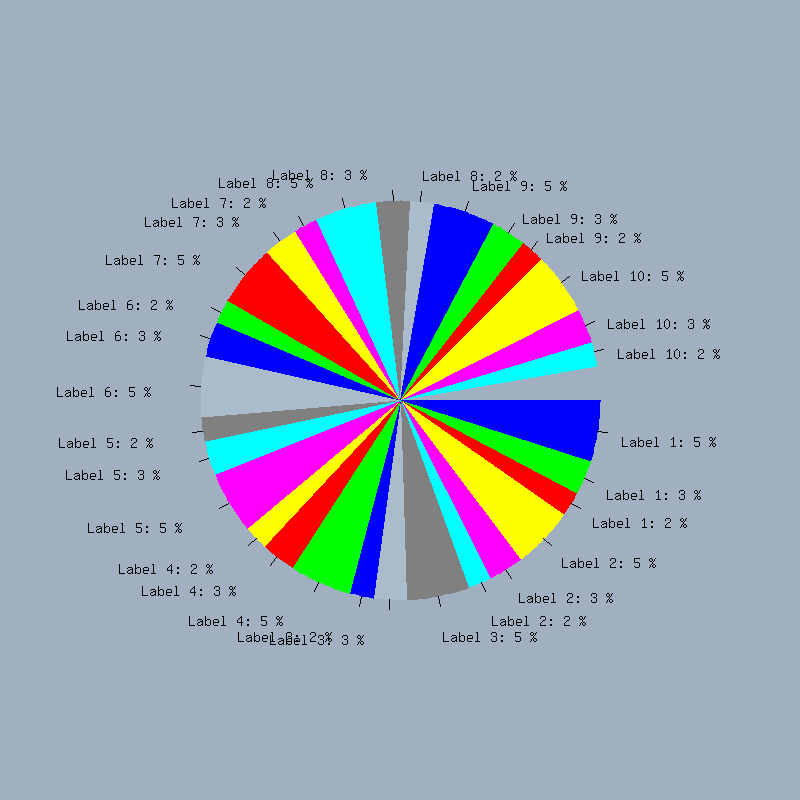
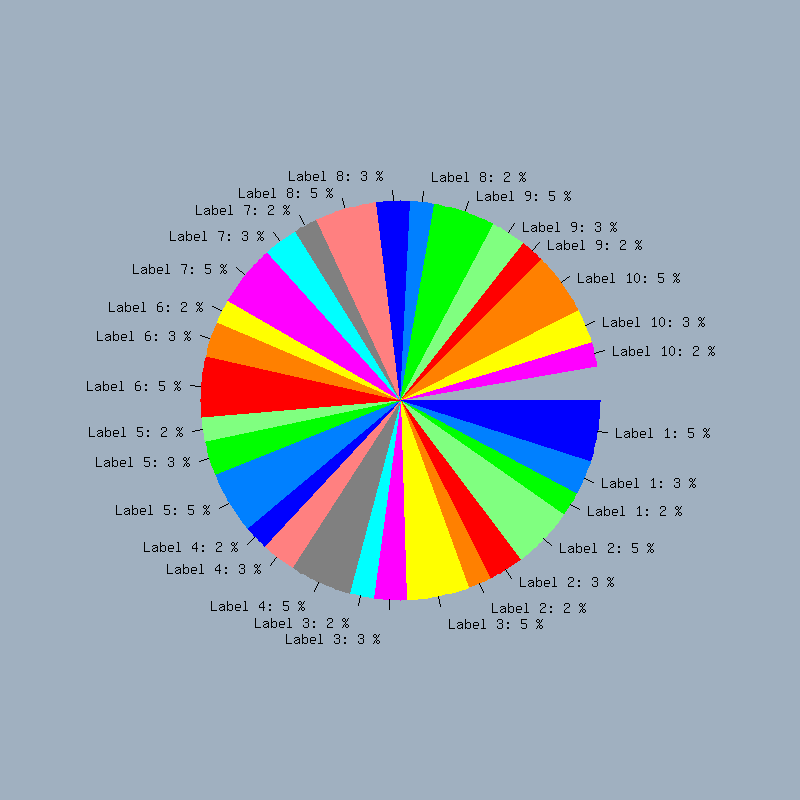
Amélioration de l'affichage des étiquettes. Ajout des fonctionnalitées relatifs absolues

diff --git a/main.c b/main.c
@@ -3,11 +3,13 @@
  *
  * Ligne de commande pour test:
  * ./pie -p 10,20,15,15,30 -l 'Label: 10%','Label: 20%','Label: 15%','Label: 15%','Label: 30%' -f CamPartiel.png -o 800,800,400,0x80A0B0C0
+ * Option c
  * ./pie -p 5,3,2,5,3,2,5,3,2,5,3,2,5,3,2,5,3,2,5,3,2,5,3,2,5,3,2,5,3,2, -l 'Label 1: 5 %','Label 1: 3 %','Label 1: 2 %','Label 2: 5 %','Label 2: 3 %','Label 2: 2 %','Label 3: 5 %','Label 3: 3 %','Label 3: 2 %','Label 4: 5 %','Label 4: 3 %','Label 4: 2 %','Label 5: 5 %','Label 5: 3 %','Label 5: 2 %','Label 6: 5 %','Label 6: 3 %','Label 6: 2 %','Label 7: 5 %','Label 7: 3 %','Label 7: 2 %','Label 8: 5 %','Label 8: 3 %','Label 8: 2 %','Label 9: 5 %','Label 9: 3 %','Label 9: 2 %','Label 10: 5 %','Label 10: 3 %','Label 10: 2 %' -f pbArrondi.png -o 800,800,400,0x80A0B0C0 -t c
- *
- * ./pie -p 5,3,2,5,3,2,5,3,2,5,3,2,5,3,2,5,3,2,5,3,2,5,3,2,5,3,2,5,3,2, -l 'Label 1: 5 %','Label 1: 3 %','Label 1: 2 %','Label 2: 5 %','Label 2: 3 %','Label 2: 2 %','Label 3: 5 %','Label 3: 3 %','Label 3: 2 %','Label 4: 5 %','Label 4: 3 %','Label 4: 2 %','Label 5: 5 %','Label 5: 3 %','Label 5: 2 %','Label 6: 5 %','Label 6: 3 %','Label 6: 2 %','Label 7: 5 %','Label 7: 3 %','Label 7: 2 %','Label 8: 5 %','Label 8: 3 %','Label 8: 2 %','Label 9: 5 %','Label 9: 3 %','Label 9: 2 %','Label 10: 5 %','Label 10: 3 %','Label 10: 2 %' -f pbArrondi.png -o 800,800,400,0x80A0B0C0 -t C
+ * Option C
+ * ./pie -p 11,9,11,9,11,9,11,9,11,9,11,9,11,9,11,9,11,9,11,9,11,9,11,9,11,9,11,9,11,9,11,9,11,9,11,9 -l 'Label: 11','Label: 9','Label: 11','Label: 9','Label: 11','Label: 9','Label: 11','Label: 9','Label: 11','Label: 9','Label: 11','Label: 9','Label: 11','Label: 9','Label: 11','Label: 9','Label: 11','Label: 9','Label: 11','Label: 9','Label: 11','Label: 9','Label: 11','Label: 9','Label: 11','Label: 9','Label: 11','Label: 9','Label: 11','Label: 9','Label: 11','Label: 9','Label: 11','Label: 9','Label: 11','Label: 9' -f Cam36C.png -o 800,800,400,0x80A0B0C0 -t C
  *
  * ./pie -p 10,20,30,40,50,100,50,60 -l 'Label: 10%','Label: 20%','Label: 30%','Label: 40%','Label: 50%','Label: 100%','Label: 50%','Label: 60%' -f toto1.png -o 800,800,400,0x80A0B0C0
+ *
  * ./pie -p 11,9,11,9,11,9,11,9,11,9,11,9,11,9,11,9,11,9,11,9,11,9,11,9,11,9,11,9,11,9,11,9,11,9,11,9 -l 'Label: 11','Label: 9','Label: 11','Label: 9','Label: 11','Label: 9','Label: 11','Label: 9','Label: 11','Label: 9','Label: 11','Label: 9','Label: 11','Label: 9','Label: 11','Label: 9','Label: 11','Label: 9','Label: 11','Label: 9','Label: 11','Label: 9','Label: 11','Label: 9','Label: 11','Label: 9','Label: 11','Label: 9','Label: 11','Label: 9','Label: 11','Label: 9','Label: 11','Label: 9','Label: 11','Label: 9' -f toto.png -o 800,800,400,0x80A0B0C0 -t C
 */
 
@@ -16,6 +18,12 @@
 #include <unistd.h>
 #include <gd.h>
 #include <gdfontl.h>
+#include <gdfontt.h>
+#include <gdfonts.h>
+#include <gdfontmb.h>
+#include <gdfontg.h>
+
+
 #include <math.h>
 
 //#define DEBUG 0
@@ -25,27 +33,39 @@ int LARGEUR = 400;
 int DIMENSION= 200;
 long unsigned int COULEUR_FOND= 0x00FFFFFF;
 
-int taille_police= 10;
+long unsigned int COULEURS[]= {0x000000FF, 0x000080FF, 0x0000FF00, 0x0080FF80, 0x00FF0000, 0x00FF8000 ,0x00FFFF00, 0x00FF00FF, 0x0000FFFF, 0x00808080, 0x00FF8080};
 
-long unsigned int COULEURS[]= {0x000000FF, 0x0000FF00, 0x00FF0000, 0x00FFFF00, 0x00FF00FF, 0x0000FFFF, 0x00808080, 0x00AABBCC};
 
 void afficheAide(void);
 
 int main(int argc, char **argv)
 {
     char *cP, *cL, *cF, *cO, *mot,  **tabArgL, *chW; //*cT,
-    char typeGraphique= 'c'; // Type de grapphiqque par défaut
-    int opt;
+    char typeGraphique= 'C'; // Type de graphique par défaut
+    int opt, numPolice= 3;
     int longCouleur= sizeof(COULEURS)/sizeof(long unsigned int), nArgP= 1, nArgL= 1, tailleArgL= 1;
     int *pourcentage= NULL;
-    gdImagePtr im;
     FILE *desc;
+    gdImagePtr im;
+    gdFontPtr polices[5]; // Plus facile si on souhaite passé le type de police= gdFontLarge;
+
+    polices[0]= gdFontTiny;
+    polices[1]= gdFontSmall;
+    polices[2]= gdFontMediumBold;
+    polices[3]= gdFontLarge;
+    polices[4]= gdFontGiant;
 
     if(argc== 1)
     {
         afficheAide();
         return 1;
     }
+
+    //----------------------------------------------------------------------------------------------------------------------------------------------------------------
+    //
+    //                                          RECUPERATION DE LA LIGNE DE COMMANDE ET PRE TRAITEMENT
+    //
+    //----------------------------------------------------------------------------------------------------------------------------------------------------------------
 
     while((opt = getopt(argc, argv, "p:t:l:f:o:")) != -1) // pltf
     {
@@ -60,9 +80,9 @@ int main(int argc, char **argv)
         break;
 
         case 't': // De la forme t x avec x= c pour un camembert, h pour un histo, b pour un bar chart
-           printf("option: %c\n", opt);
-           printf("param: %s\n", optarg);
-           printf("Longueur: %d\n", strlen(optarg));
+           //printf("option: %c\n", opt);
+           //printf("param: %s\n", optarg);
+           //printf("Longueur: %d\n", strlen(optarg));
            //cT= (char *)malloc( (strlen(optarg) * sizeof(char)) + sizeof(char));
            //strcpy(cT, optarg);
            typeGraphique= optarg[0];
@@ -87,10 +107,9 @@ int main(int argc, char **argv)
            sscanf(cO,"%d,%d,%d,%lx", &HAUTEUR, &LARGEUR, &DIMENSION, &COULEUR_FOND);
            if(HAUTEUR < 200)HAUTEUR=200;
            if(LARGEUR < 200)LARGEUR=200;
-           if(DIMENSION < 200)DIMENSION=100;
+           //if(DIMENSION < 200)DIMENSION=100;
            //printf("\nH %d L %d R %d C %lx\n", HAUTEUR, LARGEUR, DIMENSION, COULEUR_FOND);
            //if(COULEUR_FOND < 200)HAUTEUR=200;
-
        break;
 
         case ':':
@@ -106,6 +125,12 @@ int main(int argc, char **argv)
     }
 
     //printf("\n%s\n%s\n%s\n%s\n", cP,cT,cF, cL);
+
+    //----------------------------------------------------------------------------------------------------------------------------------------------------------------
+    //
+    //                                          RECUPERATION ET MISE EN FORMES DES PARAMETRES
+    //
+    //----------------------------------------------------------------------------------------------------------------------------------------------------------------
 
     //------------------- Paramètre -f
 
@@ -153,8 +178,7 @@ int main(int argc, char **argv)
             default:
                 break;
         }
-        //sscanf(mot, "%lf", );
-        printf("< nArgP= %d -- pourcentage[%d]= %d\n", nArgP, nArgP-1, pourcentage[nArgP-1]);
+        //printf("< nArgP= %d -- pourcentage[%d]= %d\n", nArgP, nArgP-1, pourcentage[nArgP-1]);
         mot= strtok(NULL,",");
         nArgP++;
     }
@@ -201,63 +225,99 @@ int main(int argc, char **argv)
 
     }
 
-    //----------------------------------- Tracer du pie
+    //----------------------------------------------------------------------------------------------------------------------------------------------------------------
+    //
+    //                                          TRACE DES DIFFERENTES FIGURES
+    //
+    //----------------------------------------------------------------------------------------------------------------------------------------------------------------
+
+    // Création de l'image de taille donée en paramètre
     im = gdImageCreateTrueColor(LARGEUR, HAUTEUR);
     gdImageFilledRectangle(im, 0, 0, LARGEUR-1, HAUTEUR-1, COULEUR_FOND);
 
-    for(int i=0, tmp= 0; i<nArgP; i++)
+    //----------------------------------- Tracer du pie
+
+    if( (typeGraphique== 'c') || (typeGraphique== 'C') )
     {
-        double si, co, angle;
-        int posx, posy, offset, off_y, off_x, off;
-        int x0, y0, x1, y1, ltrait= 10;
-        int r= DIMENSION/2 + 10;
-
-        gdImageFilledArc (im, LARGEUR/2, HAUTEUR/2, DIMENSION, DIMENSION, tmp, tmp+pourcentage[i], COULEURS[i%(longCouleur)], gdPie);
-        //printf("\ntmp= %d - tmp + pourcentage[%d]= %lu - i%(longCouleur-1)= %d - i= %d- longCouleur= %d", tmp,i, tmp + pourcentage[i], i%(longCouleur), i, longCouleur);
-
-        angle= (double)(tmp + pourcentage[i]/2)*M_PI/180;
-
-        // VARIABLES DE DEBUG
-        //double angleDeg= (tmp + pourcentage[i]/2);
-
-        si= sin(angle);
-        co= cos(angle);
-        posx= (int)(LARGEUR/2 + r * co );
-        posy= (int)(HAUTEUR/2 + r * si );
-
-        x0= (int)(LARGEUR/2 + DIMENSION/2 * co );
-        y0= (int)(HAUTEUR/2 + DIMENSION/2 * si );
-        x1= (int)(LARGEUR/2 + (DIMENSION/2+ltrait) * co );
-        y1= (int)(HAUTEUR/2 + (DIMENSION/2+ltrait) * si );
-        //printf("\n x0, y0 = %d, %d et x1, y1= %d, %d ltrait= %d -- posx= %d posy=  %d r= %d -- co=  %lf si= %lf \n",x0, y0, x1, y1, ltrait, posx, posy, r, co, si);
-        //printf("VAR DEBUG: angle en degré = %lf\n", angleDeg);
-        gdImageLine(im, x0, y0, x1, y1, 0x00000000);
-
-        //printf("\nangle %lf, sinus= %lf, cosinus= %lf, pourcentage= %d, tmp %d, angle cumulé %d M_PI= %lf posx= %d posy= %d\n", angle, si, co, pourcentage[i], tmp, tmp + pourcentage[i], M_PI, posx,posy);
-        if( (cL!= NULL) && ( i < nArgL))
+        for(int i=0, tmp= 0; i<nArgP; i++)
         {
-            if( (angle > M_PI/2) && (angle < 3*M_PI/2) )
-                offset= -taille_police * strlen(tabArgL[i]);
-            else
-                offset= 0;
+            double si, co, angle;
+            int x0, y0, x1, y1, ltrait= 10;
+            int r= DIMENSION/2 + 10;
 
-            if( (angle > M_PI/3) && (angle < 4*M_PI/3) )
-                off= (int)(taille_police*si);
-            else if( (angle > 4*M_PI/3) && (angle < 5*M_PI/3) )
-                off= (int)(taille_police * si);
-            else
-                off= 0;
-            off_y= (int)(taille_police * 1.5 * si);
-            off_x= (int)(taille_police * 1.5 * co);
-            //gdImageString(im, gdFontLarge, posx, posy, tabArgL[i], 0x00000000);
-            gdImageString(im, gdFontLarge, posx + offset + off_x , posy + off_y + off,tabArgL[i], 0x00000000);
-            //printf("\n Dans l affichage chaine: %s - offset= %d\n", tabArgL[i], offset);
+            // Tracer d'une portion de camembert
+            gdImageFilledArc (im, LARGEUR/2, HAUTEUR/2, DIMENSION, DIMENSION, tmp, tmp+pourcentage[i], COULEURS[i%(longCouleur)], gdPie);
+            //printf("\ntmp= %d - tmp + pourcentage[%d]= %lu - i%(longCouleur-1)= %d - i= %d- longCouleur= %d", tmp,i, tmp + pourcentage[i], i%(longCouleur), i, longCouleur);
+
+            angle= (double)(tmp + (double)pourcentage[i]/2)*M_PI/180;
+
+            // VARIABLES DE DEBUG
+            //double angleDeg= (tmp + pourcentage[i]/2);
+
+            si= sin(angle);
+            co= cos(angle);
+
+            x0= (int)(LARGEUR/2 + DIMENSION/2 * co );
+            y0= (int)(HAUTEUR/2 + DIMENSION/2 * si );
+            x1= (int)(LARGEUR/2 + (DIMENSION/2+ltrait) * co );
+            y1= (int)(HAUTEUR/2 + (DIMENSION/2+ltrait) * si );
+            //printf("\n x0, y0 = %d, %d et x1, y1= %d, %d ltrait= %d -- posx= %d posy=  %d r= %d -- co=  %lf si= %lf \n",x0, y0, x1, y1, ltrait, posx, posy, r, co, si);
+            //printf("VAR DEBUG: angle en degré = %lf\n", angleDeg);
+            gdImageLine(im, x0, y0, x1, y1, 0x00000000);
+
+            //----------------------------------- Ecriture d'un label associé s'il existe
+
+            //printf("\nangle %lf, sinus= %lf, cosinus= %lf, pourcentage= %d, tmp %d, angle cumulé %d M_PI= %lf posx= %d posy= %d\n", angle, si, co, pourcentage[i], tmp, tmp + pourcentage[i], M_PI, posx,posy);
+            if( (cL!= NULL) && ( i < nArgL))
+            {
+                int posx, posy, offset, off_y, off_y_s=0, off_y_s2=0;
+
+                posx= (int)(LARGEUR/2 + r * co );
+                posy= (int)(HAUTEUR/2 + r * si );
+
+                if( (angle > M_PI/2) && (angle < 3*M_PI/2) )
+                {
+                    offset= -(polices[numPolice]->w) * strlen(tabArgL[i]) - polices[numPolice]->w;
+                    off_y= (int)((polices[numPolice]->w) * 1.0 * co);
+                    //off_y_s= (int)((polices[numPolice]->w) * si * 1.5);
+                }
+                else
+                {
+                    offset= (polices[numPolice]->w);
+                    off_y= (int)(-(polices[numPolice]->w) * 1.0 * co);
+                    //off_y_s= (int)((polices[numPolice]->w) * si * 1.5);
+                }
+                if( (angle > M_PI/3) && (angle < 2*M_PI/3) || (angle > 4*M_PI/3) && (angle < 5*M_PI/3) )
+                {
+                    off_y_s= (int)((polices[numPolice]->w) * si * 1.5);
+                    off_y+= off_y_s;
+                }
+
+                if( (angle > 9*M_PI/20) && (angle < 11*M_PI/20) || (angle > 29*M_PI/20) && (angle < 31*M_PI/20) )
+                {
+                    off_y_s2= (int)((polices[numPolice]->w) * si * 1.5);
+                    off_y+= off_y_s2;
+                }
+
+                /*
+                if( (angle > M_PI/3) && (angle < 4*M_PI/3) )
+                    off= (int)((polices[numPolice]->w)*si);
+                else if( (angle > 4*M_PI/3) && (angle < 5*M_PI/3) )
+                    off= (int)((polices[numPolice]->w) * si);
+                else
+                    off= 0;
+                */
+                //off_x= 0; //(int)((polices[numPolice]->w) * 1.5 * co);
+                //gdImageString(im, gdFontLarge, posx, posy, tabArgL[i], 0x00000000);
+                gdImageString(im, gdFontLarge, posx + offset, posy + off_y,tabArgL[i], 0x00000000);
+                //printf("\n Dans l affichage chaine: %s - offset= %d\n", tabArgL[i], offset);
+            }
+
+            tmp+= pourcentage[i];
+
         }
 
-        tmp+= pourcentage[i];
-
     }
-
 
     if (!desc) {
         fprintf(stderr, "Erreur de création du fichier.\n");

diff --git a/README.md b/README.md
@@ -10,6 +10,9 @@ Ce programme permet de dessiner des camemberts proportionnels aux pourcentages p
 - -t ce paramètre optionel permet de définir le type de graphique (-t type de graphique type= c/C pour un camembert, h/H pour un histogramme, b/B pour un bar chart). Si le paramètre est en minuscule, les données sont considérées comme un pourcentage, sinon les données sont des données absolues. **b et h sont en cours d'intégration**.  
 - -o ce paramètre optionel permet de définir la hauteur et la largeur de l'image ainsi que le rayon du cercle et la couleur de fond.  
   
+La valeur par défaut du paramètre -t est 'C'.  
+Les valeurs par défauts du paramètre -o sont 400, 400, 200, 0x00FFFFFF (Couleur blanche).  
+  
 ## Remarques  
 Les paramètres doivent être cohérents.  
 Les différentes valeurs doivent être séparées par des virgules et sans espace.  
@@ -33,4 +36,11 @@ Cette image fera 800 pixels de haut et de large. Le camembert aura un diamètre 
   
 ## Valeur retournée  
 1 en cas d'erreur, 0 si succès.  
+  
+## Ligne de commande pour test  
+Paramètre nul dans une liste: Pas de plantage et l'ordre des valeurs passées est conforme à ce qui est attendu (la double virgule est filtrée).  
+./pie -f toto.png -p 10,,30,50 -l lab1,,lab3,lab4  
+A noter que le ',,' à un comportement différent du '0' qui créera une portion de camembert d'une taille de 0.  
+./pie -f toto.png -p 10,,30,50 -l lab1,lab2,,lab4 -t c  
+
 
